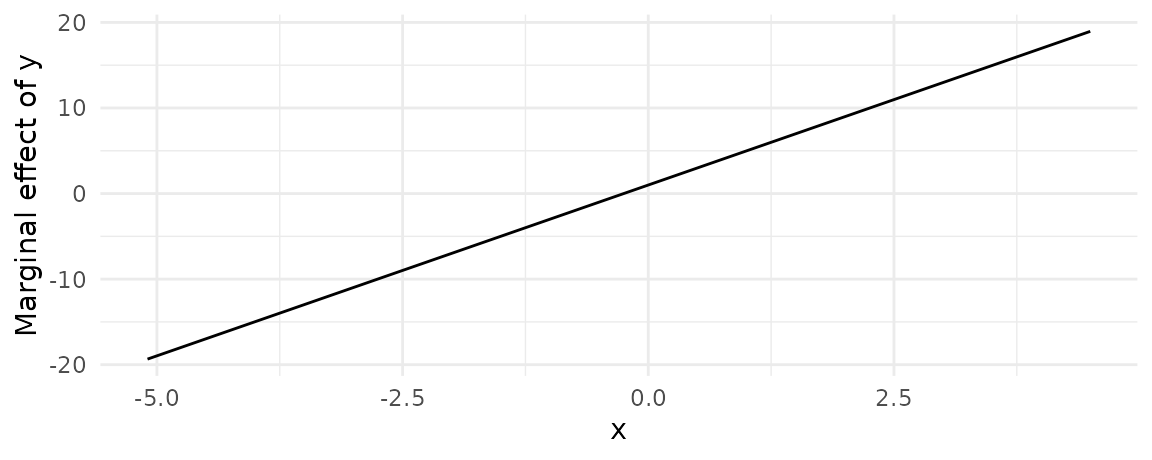
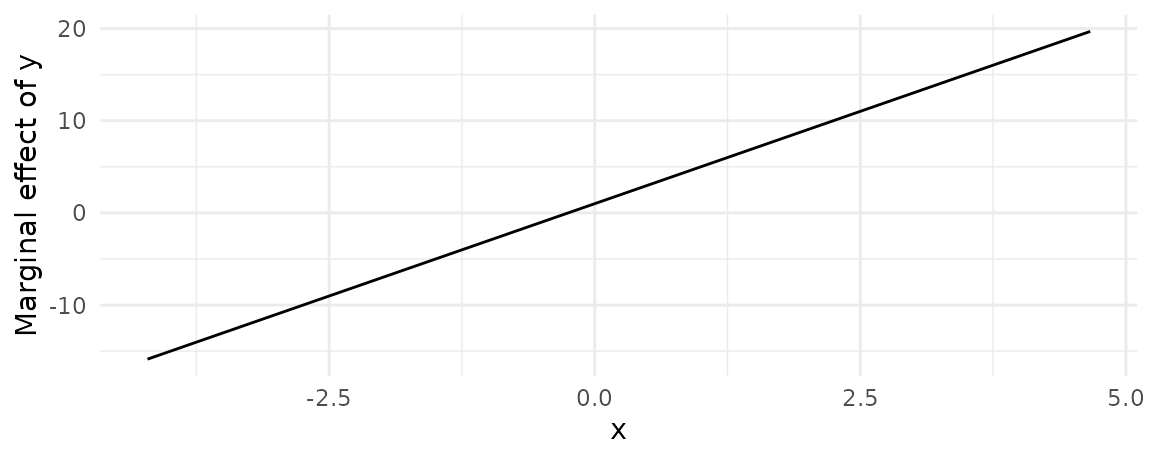
Built site for marginaleffects: 0.1.0@949ecb3

diff --git a/articles/mfx.html b/articles/mfx.html
@@ -256,12 +256,12 @@
 <span class="fu"><a href="../reference/marginaleffects.html">marginaleffects</a></span><span class="op">(</span><span class="va">mod</span>, newdata <span class="op">=</span> <span class="fu"><a href="../reference/typical.html">typical</a></span><span class="op">(</span>x <span class="op">=</span> <span class="op">-</span><span class="fl">2</span><span class="op">:</span><span class="fl">2</span><span class="op">)</span><span class="op">)</span>  <span class="op">%&gt;%</span>
     <span class="fu"><a href="https://dplyr.tidyverse.org/reference/mutate.html">mutate</a></span><span class="op">(</span>truth <span class="op">=</span> <span class="fl">1</span> <span class="op">+</span> <span class="fl">4</span> <span class="op">*</span> <span class="va">x</span><span class="op">)</span> <span class="op">%&gt;%</span>
     <span class="fu"><a href="https://dplyr.tidyverse.org/reference/select.html">select</a></span><span class="op">(</span><span class="va">dydx</span>, <span class="va">truth</span><span class="op">)</span>
-<span class="co">#&gt;         dydx truth</span>
-<span class="co">#&gt; 1 -6.9879371    -7</span>
-<span class="co">#&gt; 2 -2.9953133    -3</span>
-<span class="co">#&gt; 3  0.9973106     1</span>
-<span class="co">#&gt; 4  4.9899345     5</span>
-<span class="co">#&gt; 5  8.9825583     9</span></code></pre></div>
+<span class="co">#&gt;        dydx truth</span>
+<span class="co">#&gt; 1 -7.014639    -7</span>
+<span class="co">#&gt; 2 -3.007555    -3</span>
+<span class="co">#&gt; 3  0.999529     1</span>
+<span class="co">#&gt; 4  5.006613     5</span>
+<span class="co">#&gt; 5  9.013697     9</span></code></pre></div>
 <p>We can also plot the result with the <code>plot_cme</code> function (see section below):</p>
 <div class="sourceCode" id="cb12"><pre class="downlit sourceCode r">
 <code class="sourceCode R"><span class="fu"><a href="../reference/plot_cme.html">plot_cme</a></span><span class="op">(</span><span class="va">mod</span>, effect <span class="op">=</span> <span class="st">"x"</span>, condition <span class="op">=</span> <span class="st">"x"</span><span class="op">)</span></code></pre></div>
